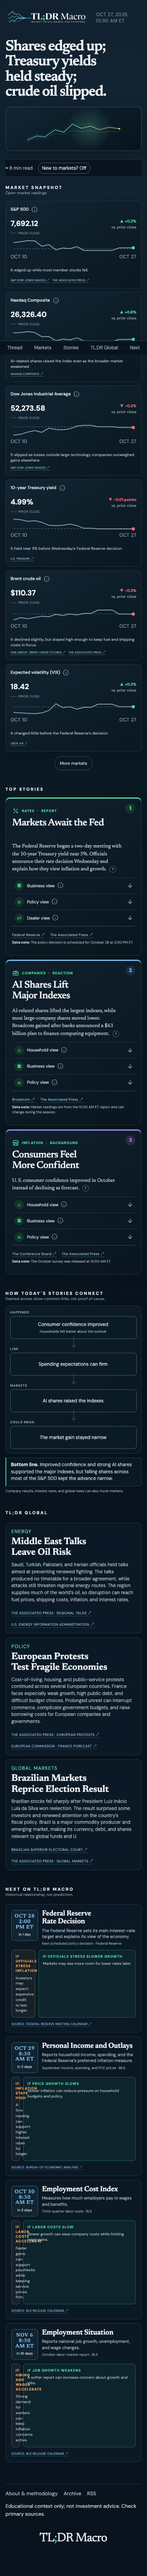
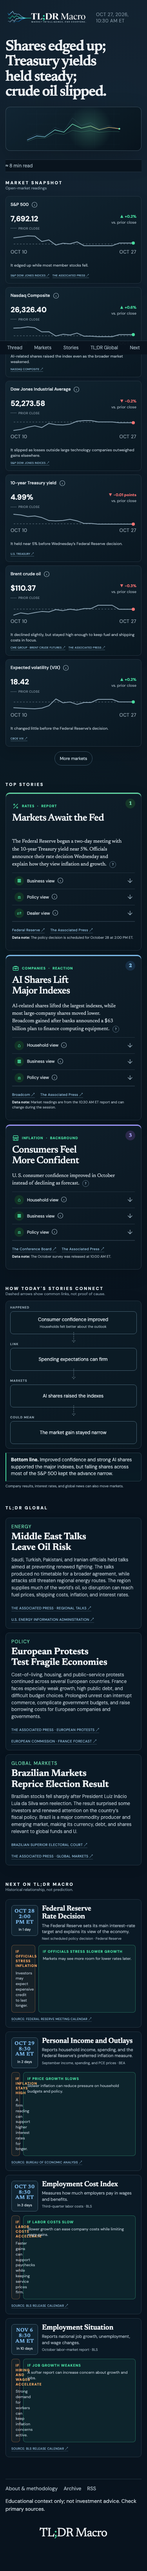
Remove beginner mode toggle

diff --git a/app/MarketSnapshot.tsx b/app/MarketSnapshot.tsx
@@ -9,5 +9,5 @@ const displayName:Record<string,string>={"Gold futures":"Gold","Expected volatil
 const definitions:Record<string,string>={"S&P 500":"Tracks 500 large U.S. companies and anchors many retirement funds.","Nasdaq Composite":"Tracks many listed companies and leans toward technology.","10-year Treasury yield":"The annual return demanded for lending to the U.S. government for ten years; it influences many long-term borrowing rates.","Brent crude oil":"A global oil benchmark that can feed into fuel, freight, and production costs.","Expected volatility":"The VIX estimates expected S&P 500 price swings over the next month.","30-year fixed mortgage rate":"The average rate on a common U.S. home loan with payments fixed for 30 years."};
 const direction=(value:number)=>value>0?"up":value<0?"down":"flat";const formatDate=(iso:string,withTime=false)=>new Intl.DateTimeFormat("en-US",withTime?{month:"short",day:"numeric",hour:"numeric",minute:"2-digit",timeZone:"America/New_York"}:{month:"short",day:"numeric",timeZone:"America/New_York"}).format(new Date(iso));const movement=(description:string)=>{const sentences=description.match(/[^.!?]+[.!?]+/g)||[description];return(sentences.at(-1)||description).trim()};const isStale=(market:Market)=>Date.now()-new Date(market.fetched_at).getTime()>36*60*60*1000;
 function InfoIcon(){return <svg viewBox="0 0 16 16" aria-hidden="true"><circle cx="8" cy="8" r="6.5"/><path d="M8 7v4M8 4.7h.01"/></svg>}
-function MarketCard({market}:{market:Market}){const name=displayName[market.name]||market.name,move=direction(market.change_percent),endLabel=(market.frequency||"").toLowerCase().includes("intraday")?formatDate(market.fetched_at,true):formatDate(market.fetched_at),span=Math.max(1,market.chart_span_days||Math.min(30,market.points.length-1)),startLabel=formatDate(new Date(new Date(market.fetched_at).getTime()-span*86400000).toISOString()),explanation=definitions[market.name]||market.description.split(/(?<=[.!?])\s+/)[0],stale=isStale(market);return <article className={`market${stale?" stale-market":""}`}><div className="market-title"><h3>{name}</h3><TermPopover className="instrument-info" label={name} ariaLabel={`What is the ${name}?`} body={<span>{explanation}</span>}><InfoIcon/></TermPopover></div><div className="market-value"><strong className="market-primary-value">{market.display_value}</strong><div><b className={move}>{move==="up"?"▲":move==="down"?"▼":"●"} {market.display_change}</b><small>vs. {market.baseline==="prior_close"?"prior close":"prior reading"}</small></div></div>{market.points?.length>1?<Sparkline points={market.points} direction={move==="down"?"down":"up"} startLabel={startLabel} endLabel={endLabel} endDate={market.fetched_at} spanDays={span} label={`${name}, latest ${market.display_value} as of ${endLabel}`} valueFormatter={number=>String(number)} referenceValue={market.prior_close} referenceLabel="Prior close"/>:null}<p className="market-description"><AnnotatedText text={movement(market.description)}/></p><p className="newbie-explainer">{explanation}</p><div className="market-sources">{market.sources.map(source=><a href={source.href} target="_blank" rel="noreferrer" key={source.href}>{source.name} ↗</a>)}</div><table className="sr-only"><caption>{name} chart data</caption><tbody>{market.points.map((point,index)=><tr key={index}><th>Observation {index+1}</th><td>{point}</td></tr>)}</tbody></table></article>}
+function MarketCard({market}:{market:Market}){const name=displayName[market.name]||market.name,move=direction(market.change_percent),endLabel=(market.frequency||"").toLowerCase().includes("intraday")?formatDate(market.fetched_at,true):formatDate(market.fetched_at),span=Math.max(1,market.chart_span_days||Math.min(30,market.points.length-1)),startLabel=formatDate(new Date(new Date(market.fetched_at).getTime()-span*86400000).toISOString()),explanation=definitions[market.name]||market.description.split(/(?<=[.!?])\s+/)[0],stale=isStale(market);return <article className={`market${stale?" stale-market":""}`}><div className="market-title"><h3>{name}</h3><TermPopover className="instrument-info" label={name} ariaLabel={`What is the ${name}?`} body={<span>{explanation}</span>}><InfoIcon/></TermPopover></div><div className="market-value"><strong className="market-primary-value">{market.display_value}</strong><div><b className={move}>{move==="up"?"▲":move==="down"?"▼":"●"} {market.display_change}</b><small>vs. {market.baseline==="prior_close"?"prior close":"prior reading"}</small></div></div>{market.points?.length>1?<Sparkline points={market.points} direction={move==="down"?"down":"up"} startLabel={startLabel} endLabel={endLabel} endDate={market.fetched_at} spanDays={span} label={`${name}, latest ${market.display_value} as of ${endLabel}`} valueFormatter={number=>String(number)} referenceValue={market.prior_close} referenceLabel="Prior close"/>:null}<p className="market-description"><AnnotatedText text={movement(market.description)}/></p><div className="market-sources">{market.sources.map(source=><a href={source.href} target="_blank" rel="noreferrer" key={source.href}>{source.name} ↗</a>)}</div><table className="sr-only"><caption>{name} chart data</caption><tbody>{market.points.map((point,index)=><tr key={index}><th>Observation {index+1}</th><td>{point}</td></tr>)}</tbody></table></article>}
 export default function MarketSnapshot({markets}:{markets:Market[]}){const [expanded,setExpanded]=useState(false),headlineNames=["S&P 500","Nasdaq Composite","Dow Jones Industrial Average","10-year Treasury yield","Brent crude oil","Expected volatility"],headline=headlineNames.map(name=>markets.find(item=>item.name===name&&item.available!==false)).filter(Boolean) as Market[],mainNames=new Set(headline.map(item=>item.name)),allOther=[...markets.filter(item=>!mainNames.has(item.name)).map(item=>({...item,group:"Stocks"})),...extras.filter(item=>!mainNames.has(item.name))] as Market[],groups=["Stocks","International Indices","Rates","Currencies","Commodities"],current=allOther.filter(item=>item.available!==false&&!isStale(item)),stale=allOther.filter(item=>item.available===false||isStale(item)),status=headline.some(isStale)?"Latest verified readings · chart labels show each observation date":"Open-market readings";return <section className="market-section" aria-labelledby="market-title"><div className="section-heading market-heading"><h2 id="market-title">Market Snapshot</h2><p>{status}</p></div><div className="market-grid">{headline.map(market=><MarketCard market={market} key={market.name}/>)}</div><button className="more-markets" type="button" aria-expanded={expanded} aria-controls="extra-markets" onClick={()=>setExpanded(value=>!value)}>{expanded?"Fewer markets":"More markets"}</button><div id="extra-markets" hidden={!expanded} className="extra-markets">{groups.map(group=>{const cards=current.filter(item=>item.group===group);return cards.length?<section key={group}><h3>{group==="Currencies"?"Exchange rates":group}</h3><div className="market-grid">{cards.map(item=><MarketCard market={item} key={item.name}/>)}</div></section>:null})}{stale.length?<details className="stale-group"><summary>Earlier verified readings ({stale.length})</summary><div className="market-grid">{stale.map(item=><MarketCard market={item} key={item.name}/>)}</div></details>:null}</div></section>}

diff --git a/app/globals.css b/app/globals.css
@@ -335,10 +335,9 @@ body { font-size:16px; }
 
 /* Reader tools and trust pass */
 .summary-why{max-width:920px;margin:7px 0 0;color:#aebdc7;font-size:13px;line-height:1.5}.edition-summary{overflow-wrap:anywhere}.reader-tools{display:flex;align-items:center;gap:14px;padding:10px 0;border-bottom:1px solid var(--line);color:#9fb0bb;font-size:12px}.reader-tools button{padding:5px 9px;border:1px solid #496273;border-radius:999px;background:transparent;color:#d3dde3;cursor:pointer}.reader-tools button[aria-pressed="true"]{border-color:var(--green);color:var(--green)}.reader-tools nav{margin-left:auto;display:flex;gap:14px}.reader-tools nav a:hover{color:var(--ink)}
-.newbie-explainer{display:none!important;margin-top:8px!important;padding:9px 10px;border-left:2px solid var(--green);background:#0b1b25;color:#b9c6ce!important}.instrument-info,.info-button,.thread-node-info{width:16px;height:16px;display:inline-flex;align-items:center;justify-content:center;padding:0;border:0;background:transparent;color:#93a7b4;cursor:help}.instrument-info svg,.info-button svg,.thread-node-info svg{width:16px;height:16px;fill:none;stroke:currentColor;stroke-width:1.2}.instrument-info:focus-visible,.info-button:focus-visible,.thread-node-info:focus-visible{outline:2px solid var(--blue);outline-offset:2px}.market-title .stale-badge{margin-left:auto;padding:3px 6px;border:1px solid #9a7048;color:#e4b27e;font-size:10px;white-space:nowrap}.stale-group{margin-top:28px;border-top:1px solid var(--line)}.stale-group>summary{padding:16px 0;color:#d0d9df;cursor:pointer}.stale-market{opacity:.88}
+.instrument-info,.info-button,.thread-node-info{width:16px;height:16px;display:inline-flex;align-items:center;justify-content:center;padding:0;border:0;background:transparent;color:#93a7b4;cursor:help}.instrument-info svg,.info-button svg,.thread-node-info svg{width:16px;height:16px;fill:none;stroke:currentColor;stroke-width:1.2}.instrument-info:focus-visible,.info-button:focus-visible,.thread-node-info:focus-visible{outline:2px solid var(--blue);outline-offset:2px}.market-title .stale-badge{margin-left:auto;padding:3px 6px;border:1px solid #9a7048;color:#e4b27e;font-size:10px;white-space:nowrap}.stale-group{margin-top:28px;border-top:1px solid var(--line)}.stale-group>summary{padding:16px 0;color:#d0d9df;cursor:pointer}.stale-market{opacity:.88}
 .linear-thread{display:grid;grid-template-columns:minmax(0,1fr) 34px minmax(0,1fr) 34px minmax(0,1fr) 34px minmax(0,1fr);align-items:center;gap:4px;padding:24px;border:1px solid var(--line);background:linear-gradient(145deg,#0d1d29,#091720)}.linear-thread-item{display:contents}.thread-step{min-width:0}.thread-step small{display:block;margin-bottom:7px;color:#90a3af;font-size:10px;font-weight:700;text-transform:uppercase;letter-spacing:.11em}.thread-node{position:relative;min-height:104px;display:flex;flex-direction:column;align-items:center;justify-content:center;padding:14px;border:1px solid #456172;background:#0b1b25;text-align:center;overflow-wrap:anywhere}.thread-arrow{width:34px;height:18px;fill:none;stroke:#78909f;stroke-width:1.5;stroke-dasharray:4 3}.thread-takeaway{margin:0 0 14px}.lens-preview{min-width:0;overflow:hidden;color:#93a5b1;font-size:12px;white-space:nowrap;text-overflow:ellipsis}.lens-chevron svg{width:16px;height:16px;fill:none;stroke:currentColor;stroke-width:1.5}
 .glossary-list>div{padding:18px 0;border-top:1px solid var(--line)}.glossary-list dt{font-family:var(--font-serif),serif;font-size:24px;color:var(--ink)}.glossary-list dd{margin:5px 0 0;color:#b9c5cd;line-height:1.6}.glossary-list dd span{color:#8397a5}.archive-list{padding:0;list-style:none}.archive-list li{padding:18px 0;border-top:1px solid var(--line)}.archive-nav{position:sticky;z-index:8000;top:0;display:flex;justify-content:space-between;padding:10px 24px;background:#08131ef2;border-bottom:1px solid var(--line);color:#b8c5cd}
-html[data-newbie="true"] .newbie-explainer{display:block!important}
 @media(max-width:700px){.reader-tools{position:sticky;z-index:100;top:0;overflow-x:auto;background:#08131ef2}.reader-tools .read-time,.reader-tools button{flex:none}.reader-tools nav{position:fixed;z-index:8500;left:0;right:0;bottom:0;margin:0;padding:9px 10px;justify-content:space-around;background:#08131ef2;border-top:1px solid var(--line)}.linear-thread{display:flex;flex-direction:column;gap:8px;padding:14px}.linear-thread-item{display:flex;flex-direction:column;width:100%;align-items:center}.thread-step{width:100%}.thread-arrow{transform:rotate(90deg)}.lens-row{grid-template-columns:auto auto minmax(0,1fr) auto}.lens-preview{grid-column:3/4;display:block}.market-grid{grid-template-columns:1fr}.market{border-right:0!important}.market:nth-child(n){border-bottom:1px solid var(--line)}body{padding-bottom:42px}}
 
 /* Inline glossary triggers must remain typographically indistinguishable from prose. */

diff --git a/app/ReaderTools.tsx b/app/ReaderTools.tsx
@@ -1,3 +1,1 @@
-"use client";
-import {useEffect,useState} from "react";
-export default function ReaderTools(){const[newbie,setNewbie]=useState(false);useEffect(()=>{const timer=setTimeout(()=>{try{const value=localStorage.getItem("tldrm-newbie")==="true";setNewbie(value);document.documentElement.dataset.newbie=String(value)}catch{}},0);return()=>clearTimeout(timer)},[]);const toggle=()=>setNewbie(value=>{const next=!value;try{localStorage.setItem("tldrm-newbie",String(next));document.documentElement.dataset.newbie=String(next)}catch{}return next});return <div className="reader-tools"><span className="read-time">≈ 8 min read</span><button type="button" aria-pressed={newbie} onClick={toggle}>New to markets? {newbie?"On":"Off"}</button><nav aria-label="Sections"><a href="#thread-title">Thread</a><a href="#market-title">Markets</a><a href="#stories-title">Stories</a><a href="#global-title">TL;DR Global</a><a href="#watch-title">Next</a></nav></div>}
+export default function ReaderTools(){return <div className="reader-tools"><span className="read-time">≈ 8 min read</span><nav aria-label="Sections"><a href="#thread-title">Thread</a><a href="#market-title">Markets</a><a href="#stories-title">Stories</a><a href="#global-title">TL;DR Global</a><a href="#watch-title">Next</a></nav></div>}

diff --git a/DESIGN_REQUESTS.md b/DESIGN_REQUESTS.md
@@ -1,5 +1,9 @@
 # Design requests
 
+## 2026-10-27 — Remove beginner-mode toggle
+
+Approved by the user in chat. Remove the “New to markets?” control, its saved local preference, and the duplicate beginner-only market explanation block. Keep contextual info buttons and term popovers as the single definition system. Preserve section navigation, read-time text, accessibility, and responsive behavior.
+
 ## 2026-10-27 — Neutral term links and balanced event outcomes
 
 Approved by the user in chat with a screenshot of the current event cards and the earlier compact-dashboard reference. Replace green dotted term decoration with a quiet neutral solid underline while preserving contextual definitions. Rebuild each Next on TL;DR Macro card as a compact date-and-title overview followed by equal-width orange and green outcome panels with identical spacing, type hierarchy, and prominence. Reduce excess card height and preserve verified copy, sources, keyboard access, responsive behavior, and scenario neutrality.

diff --git a/DATA_REPORT.md b/DATA_REPORT.md
@@ -1,6 +1,6 @@
 # Data Report
 
-Generated: 2026-10-27T20:57:09.290Z
+Generated: 2026-10-27T20:58:57.151Z
 
 | Instrument | Provider | Series | Frequency | Latest timestamp | Baseline | Chart points | Status |
 |---|---|---|---|---|---|---:|---|

diff --git a/VERIFY_REPORT.md b/VERIFY_REPORT.md
@@ -1,6 +1,6 @@
 # Verification report
 
-Generated: 2026-10-27T20:57:05.811Z
+Generated: 2026-10-27T20:58:54.001Z
 Edition: 2026-10-27
 Status: PASSED
 
